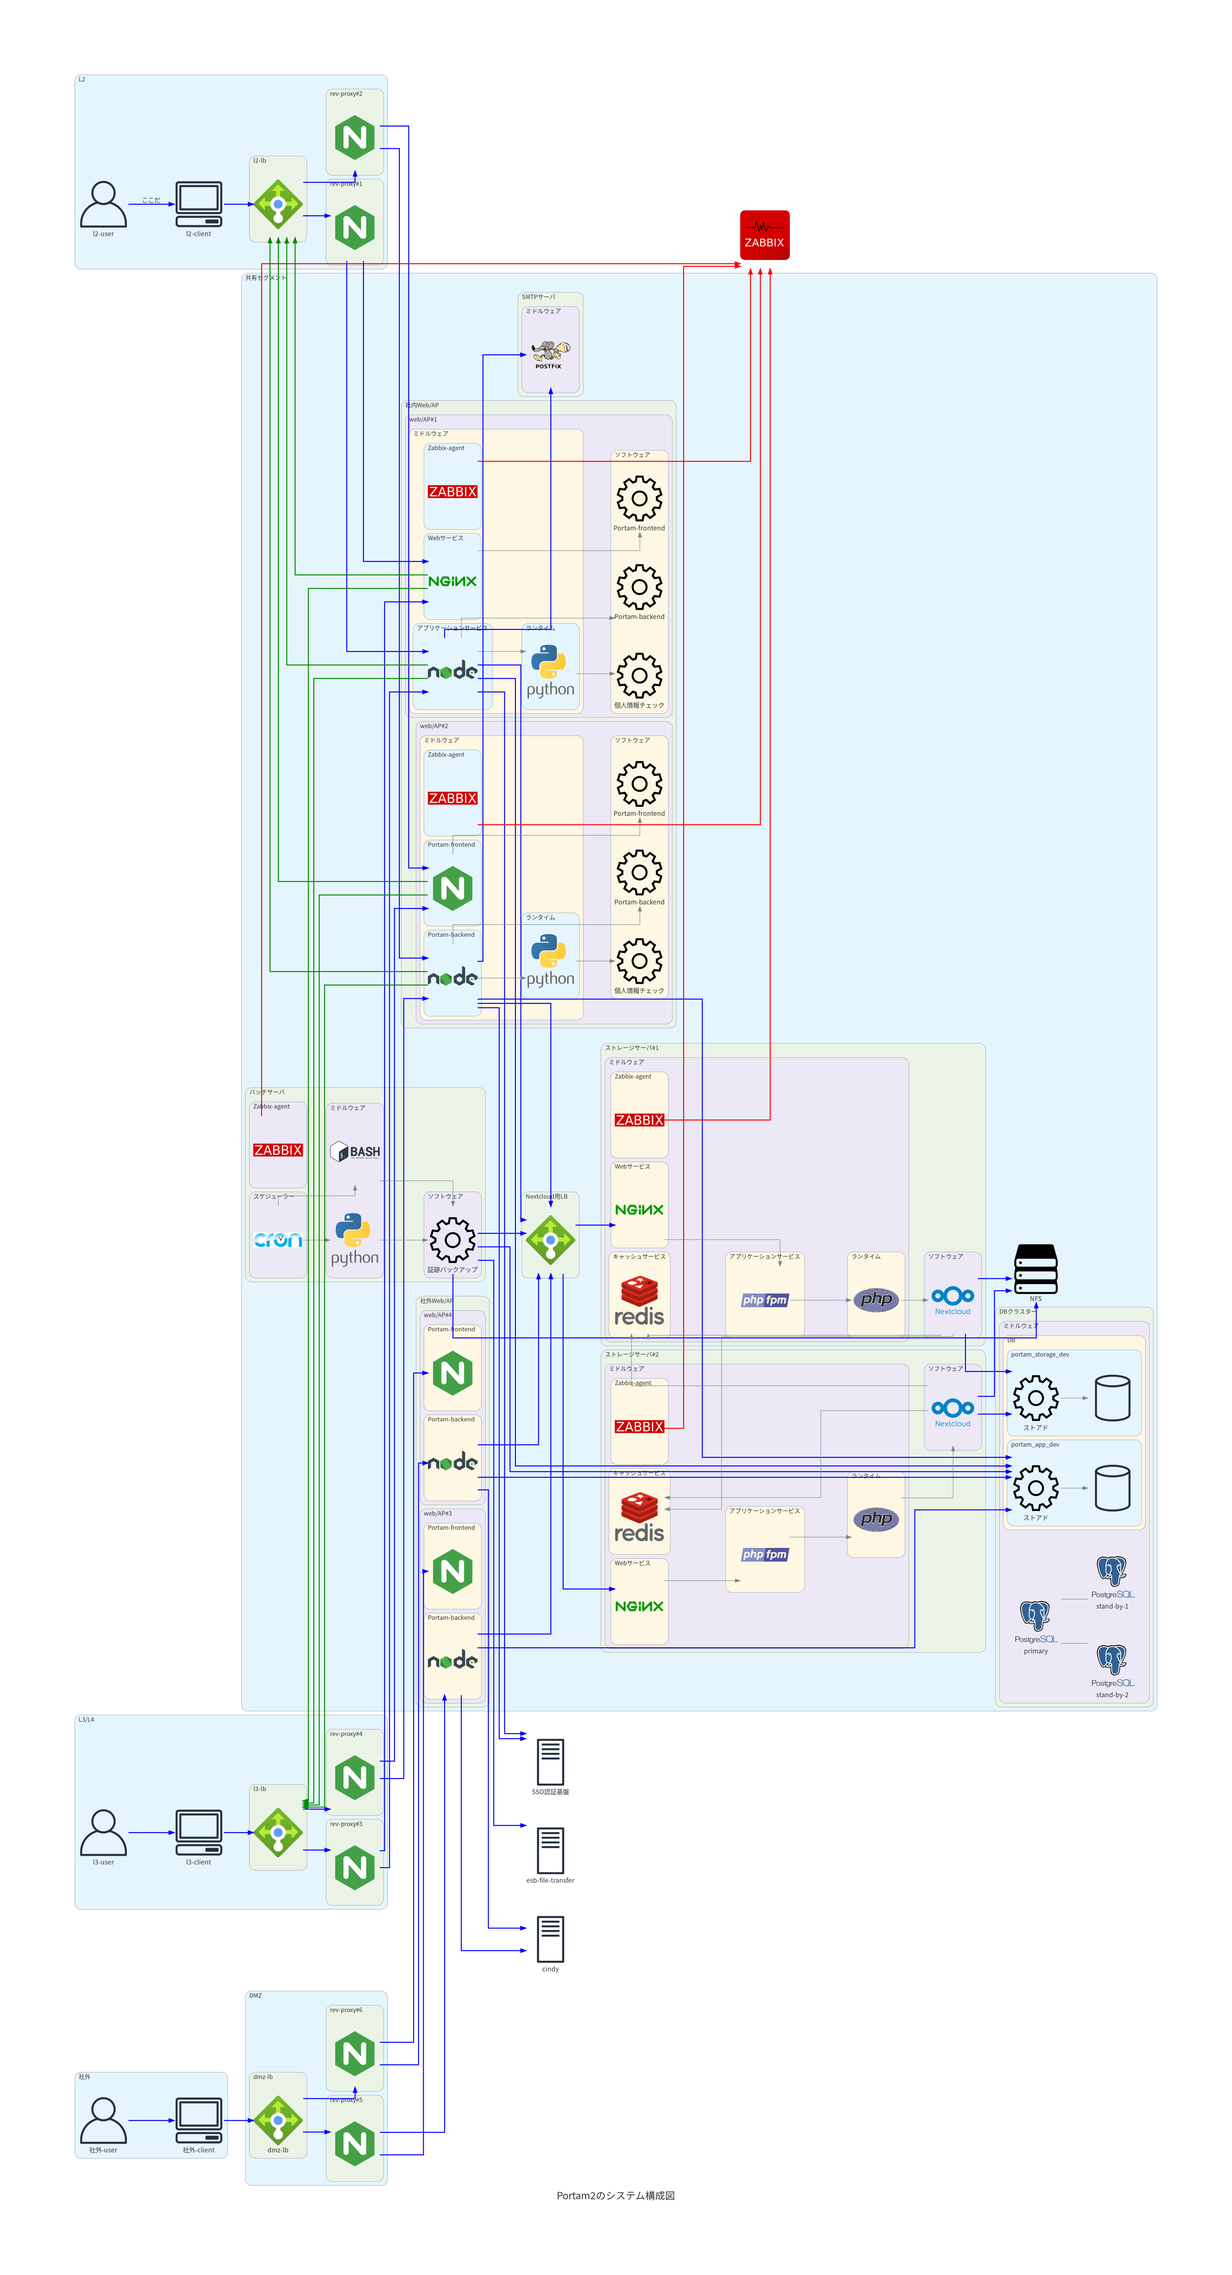
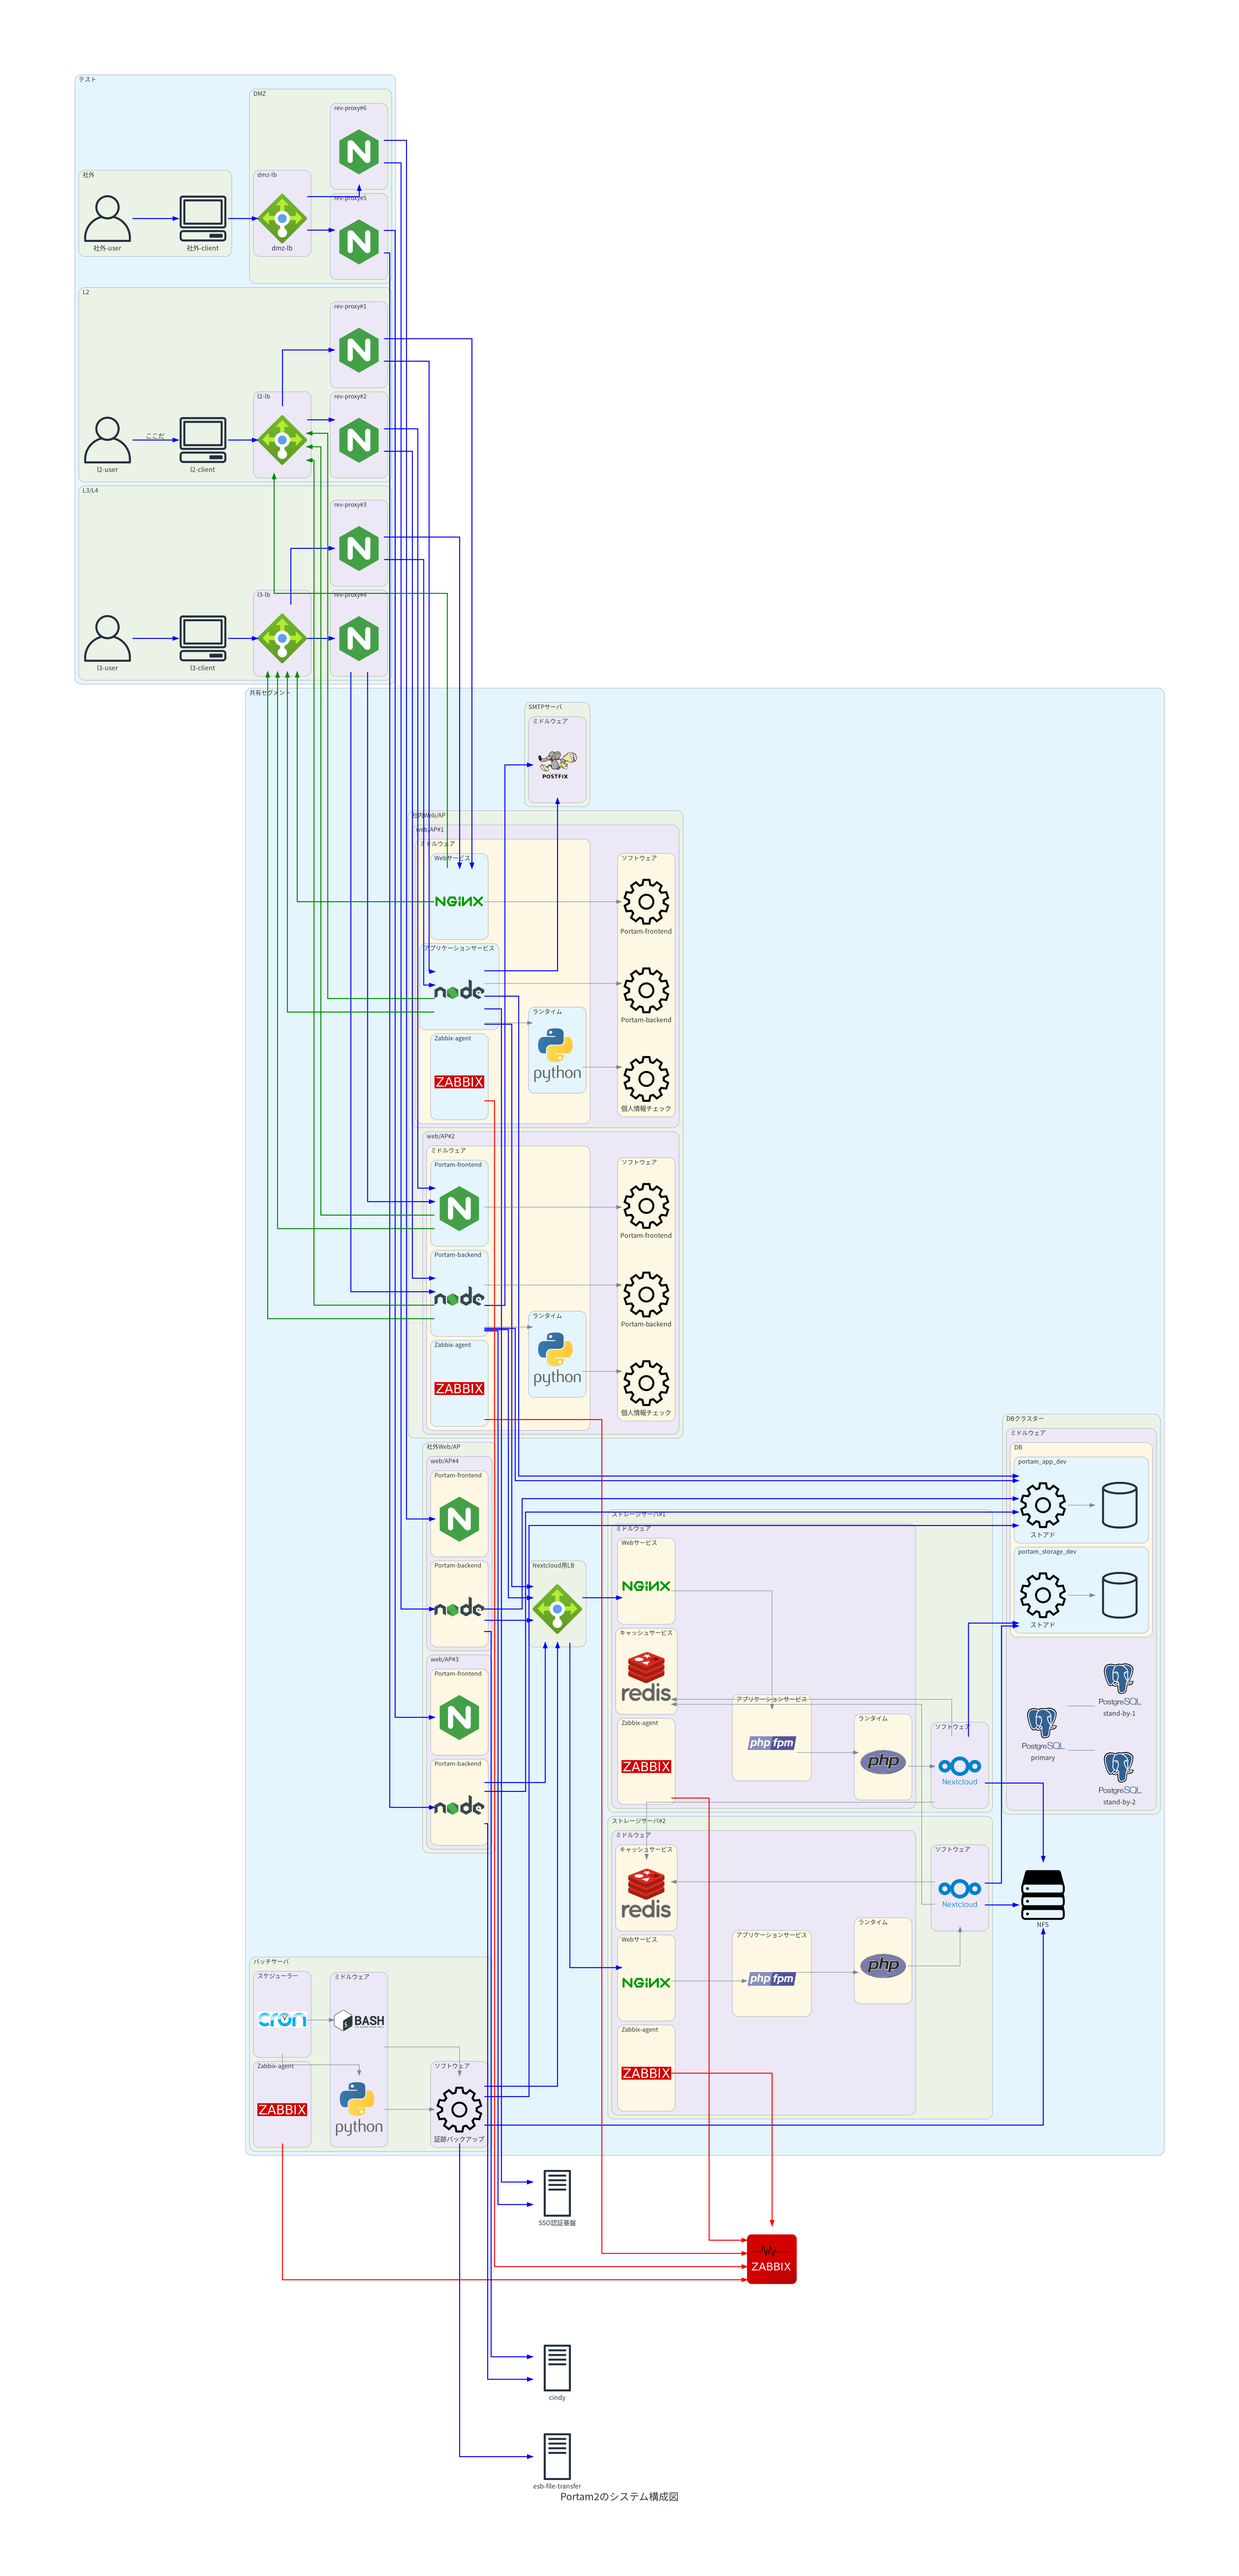
ダイアグラムの更新

diff --git a/portam2_system_diagram_2.py b/portam2_system_diagram_2.py
@@ -1,0 +1,258 @@
+from diagrams import Cluster, Diagram, Edge
+from diagrams.aws.compute import EC2
+from diagrams.aws.database import RDS
+from diagrams.onprem.database import PostgreSQL
+from diagrams.generic.storage import Storage 
+# from diagrams.programming.flowchart import Database
+from diagrams.custom import Custom
+from diagrams.azure.network import LoadBalancers
+from diagrams.aws.general import TraditionalServer
+from diagrams.aws.general import Client
+from diagrams.aws.general import User
+from diagrams.onprem.network import Nginx
+from diagrams.programming.language import Nodejs
+from diagrams.programming.language import Python
+from diagrams.onprem.monitoring import Zabbix
+from diagrams.aws.general import GenericDatabase
+from diagrams.generic.database import SQL
+from diagrams.programming.language import Php
+
+graph_attr = {
+    "fontsize": "20"
+}
+
+with Diagram("Portam2のシステム構成図", filename="portam2_system_diagram", show=False, direction="LR",graph_attr=graph_attr):
+
+    with Cluster("L2"):
+        with Cluster("l2-user"):
+            l2u = User("")
+            l2c = Client("l2-client")
+        with Cluster("l2-lb"):
+            l2lb = LoadBalancers("")
+
+        with Cluster("rev-proxy#1"):
+            rp1 = Nginx("")
+
+        with Cluster("rev-proxy#2"):
+            rp2 = Nginx("")
+
+    with Cluster("L3/L4"):
+        with Cluster("l3-user"):
+            l3u = User("")
+            l3c = Client("l3-client")
+        with Cluster("l3-lb"):
+            l3lb = LoadBalancers("")
+
+        with Cluster("rev-proxy#3"):
+            rp3 = Nginx("")
+        with Cluster("rev-proxy#4"):
+            rp4 = Nginx("")
+
+    with Cluster("DMZ"):
+        with Cluster("dmz-lb"):
+            dmzlb = LoadBalancers("dmz-lb")
+        with Cluster("rev-proxy#6"):
+            rp6 = Nginx("")
+        with Cluster("rev-proxy#5"):
+            rp5 = Nginx("")
+
+    with Cluster("社外-user"):
+        outu = User("社外-user")
+        outc = Client("社外-client")
+
+    with Cluster("共有セグメント"):
+
+        with Cluster("バッチサーバ"):
+            with Cluster("スケジューラー"):
+                with Cluster("証跡バックアップ"):
+                    pybat = Custom("", "./bash-pyton.png")
+            with Cluster("Zabbix-agent"):
+                zbat = Custom("", "./zabbix.png")
+            with Cluster("キャッシュサービス"):
+                r3 = Custom("", "./redis.png")
+
+        with Cluster("SMTPサーバ"):
+            smtp = Custom("", "./Postfix.png")
+
+        with Cluster("社内Web/AP"):
+
+            with Cluster("web/AP#1"):
+                with Cluster("Portam-frontend"):
+                    w1 = Custom("", "./nginx-b.png")
+                with Cluster("Portam-backend"):
+                    a1 = Nodejs("")
+                with Cluster("個人情報チェック"):
+                    py1 = Custom("", "./python.png")
+                with Cluster("Zabbix-agent"):
+                    za1 = Custom("", "./zabbix.png")
+                a1 >> py1
+
+            with Cluster("web/AP#2"):
+                with Cluster("Portam-frontend"):
+                    w2 = Nginx("")
+                with Cluster("Portam-backend"):
+                    a2 = Nodejs("")
+                with Cluster("個人情報チェック"):
+                    py2 = Custom("", "./python.png")
+                with Cluster("Zabbix-agent"):
+                    za2 = Custom("", "./zabbix.png")
+                a2 >> py2
+
+        with Cluster("社外Web/AP"):
+
+            with Cluster("web/AP#3"):
+                with Cluster("Portam-frontend"):
+                    w3 = Nginx("")
+                with Cluster("Portam-backend"):
+                    a3 = Nodejs("")
+
+            with Cluster("web/AP#4"):
+                with Cluster("Portam-frontend"):
+                    w4 = Nginx("")
+                with Cluster("Portam-backend"):
+                    a4 = Nodejs("")
+
+        with Cluster("DBクラスター"):
+            with Cluster("ミドルウェア"):
+                with Cluster("DB"):
+                    with Cluster("portam_app_dev"):
+                        portam_app_dev = GenericDatabase("")
+                        portam_app_dev_SQL = SQL("ストアド")
+                    portam_app_dev_SQL >> portam_app_dev 
+                
+                    with Cluster("portam_storage_dev"):
+                        portam_storage_dev = GenericDatabase("")
+                        portam_storage_dev_SQL = SQL("ストアド")
+                    portam_storage_dev_SQL >> portam_storage_dev 
+
+                psr2 = Custom("stand-by-1", "./postgresql.png")
+                psr1 = Custom("stand-by-2", "./postgresql.png")
+                psp = Custom("primary", "./postgresql.png")
+                psp - psr1
+                psp - psr2
+
+        with Cluster("Nextcloud用LB"):
+            stlb = LoadBalancers("")
+        
+        with Cluster("ストレージサーバ#1"):
+            # with Cluster("ソフトウェア"):
+            #     nc1 = Custom("", "./nextcloud.png")
+            with Cluster("キャッシュサービス"):
+                r1 = Custom("", "./redis.png")
+            # with Cluster("ランタイム"):
+            #     php1 =  Php("")
+            # with Cluster("アプリケーションサービス"):
+            #     pf1 = Custom("", "./php-fpm.png")
+            with Cluster("Nextcoloud"):
+                nxs1 = Custom("", "./nextclod-all.png")
+            with Cluster("Zabbix-agent"):
+                zs1 = Custom("", "./zabbix.png")
+
+        # nxs1 >> pf1 >> php1 >> nc1 >> r1
+        nxs1 >> r1
+        
+        with Cluster("ストレージサーバ#2"):
+            # with Cluster("ソフトウェア"):
+            #     nc2 = Custom("", "./nextcloud.png")
+            with Cluster("キャッシュサービス"):
+                r2 = Custom("", "./redis.png")
+            # with Cluster("ランタイム"):
+            #     php2 =  Php("")
+            # with Cluster("アプリケーションサービス"):
+            #     pf2 = Custom("", "./php-fpm.png")
+            with Cluster("Nextcoloud"):
+                nxs2 = Custom("", "./nextclod-all.png")
+            with Cluster("Zabbix-agent"):
+                zs2 = Custom("", "./zabbix.png")
+        # nxs2 >> pf2 >> php2 >> nc2 >> r2
+        nxs2 >> r2
+
+        nfs = Storage("NFS")
+    
+    nxs1 >> r2
+    nxs2 >> r1
+    nxs1 >> r3
+    nxs2 >> r3
+
+    sso = TraditionalServer("SSO認証基盤")
+    eft = TraditionalServer("esb-file-transfer")
+    cindy = TraditionalServer("cindy")
+    za = Zabbix("")
+
+    za1 >> Edge(color="red",  style="bold") >> za
+    za2 >> Edge(color="red",  style="bold") >> za
+    zs1 >> Edge(color="red",  style="bold") >> za
+    zs2 >> Edge(color="red",  style="bold") >> za
+    zbat >> Edge(color="red",  style="bold") >> za
+
+    a1 >> Edge(color="blue",  style="bold") >> portam_app_dev_SQL
+    a2 >> Edge(color="blue",  style="bold") >> portam_app_dev_SQL
+    a3 >> Edge(color="blue",  style="bold") >> portam_app_dev_SQL
+    a4 >> Edge(color="blue",  style="bold") >> portam_app_dev_SQL
+    a1 >> Edge(color="blue",  style="bold") >> smtp
+    a2 >> Edge(color="blue",  style="bold") >> smtp
+    a1 >> Edge(color="blue",  style="bold") >> stlb
+    a2 >> Edge(color="blue",  style="bold") >> stlb
+    a3 >> Edge(color="blue",  style="bold") >> stlb
+    a4 >> Edge(color="blue",  style="bold") >> stlb
+    stlb >> Edge(color="blue",  style="bold") >> nxs1
+    stlb >> Edge(color="blue",  style="bold") >> nxs2
+    # nc1 >> Edge(color="blue",  style="bold") >> nfs
+    nxs1 >> Edge(color="blue",  style="bold") >> nfs
+    # nc2 >> Edge(color="blue",  style="bold") >> nfs
+    nxs2 >> Edge(color="blue",  style="bold") >> nfs
+    nxs1 >> Edge(color="blue",  style="bold") >> portam_storage_dev_SQL
+    nxs2 >> Edge(color="blue",  style="bold") >> portam_storage_dev_SQL
+    pybat >> Edge(color="blue",  style="bold") >> stlb
+    pybat >> Edge(color="blue",  style="bold") >> nfs
+    pybat >> Edge(color="blue",  style="bold") >> portam_app_dev_SQL
+
+    # l2u >> Edge(label="ここだ", color="blue",  style="bold") >> l2c
+    l2c >> Edge(color="blue",  style="bold") >>l2lb
+    l2lb >> Edge(color="blue",  style="bold") >> rp1
+    l2lb >> Edge(color="blue",  style="bold") >> rp2
+
+    # l3u >> Edge(color="blue",  style="bold") >> l3c
+    l3c >> Edge(color="blue",  style="bold") >> l3lb
+    l3lb >> Edge(color="blue",  style="bold") >> rp3
+    l3lb >> Edge(color="blue",  style="bold") >> rp4
+
+    # outu >> Edge(color="blue",  style="bold") >> outc
+    outc >> Edge(color="blue",  style="bold") >> dmzlb
+    dmzlb >> Edge(color="blue",  style="bold") >> rp5
+    dmzlb >> Edge(color="blue",  style="bold") >> rp6
+
+    rp1 >> Edge(color="blue",  style="bold") >> w1
+    rp1 >> Edge(color="blue",  style="bold") >> a1
+
+    # w1 >> Edge(label="Portam-backendにL2用LB経由でアクセス", color="red",  style="bold", edge_attr=edge_attr) >> l2lb
+    w1 >> Edge(color="green4",  style="bold") >> l2lb
+    a1 >> Edge(color="green4",  style="bold") >> l2lb
+    
+    rp2 >> Edge(color="blue",  style="bold") >> w2
+    rp2 >> Edge(color="blue",  style="bold") >> a2
+
+    w2 >> Edge(color="green4",  style="bold") >> l2lb
+    a2 >> Edge(color="green4",  style="bold") >> l2lb
+
+    rp3 >> Edge(color="blue",  style="bold") >> w1
+    rp3 >> Edge(color="blue",  style="bold") >> a1
+
+    w1 >> Edge(color="green4",  style="bold") >> l3lb
+    a1 >> Edge(color="green4",  style="bold") >> l3lb
+
+    rp4 >> Edge(color="blue",  style="bold") >> w2
+    rp4 >> Edge(color="blue",  style="bold") >> a2
+
+    w2 >> Edge(color="green4",  style="bold") >> l3lb
+    a2 >> Edge(color="green4",  style="bold") >> l3lb
+ 
+    rp5 >> Edge(color="blue",  style="bold") >> w3
+    rp5 >> Edge(color="blue",  style="bold") >> a3
+    rp6 >> Edge(color="blue",  style="bold") >> w4
+    rp6 >> Edge(color="blue",  style="bold") >> a4
+    a1 >> Edge(color="blue",  style="bold") >> sso
+    a2 >> Edge(color="blue",  style="bold") >> sso
+    pybat >> Edge(color="blue",  style="bold") >> eft
+    a3 >> Edge(color="blue",  style="bold") >> cindy
+    a4 >> Edge(color="blue",  style="bold") >> cindy

diff --git a/portam2_system_diagram_1.py b/portam2_system_diagram_1.py
@@ -25,42 +25,44 @@ edge_attr = {
     "labelfontcolor": "red"
 }
 
-with Diagram("Portam2のシステム構成図", filename="simple_diagram", show=False, direction="LR",graph_attr=graph_attr):
+with Diagram("Portam2のシステム構成図", filename="portam2_system_diagram", show=False, direction="LR",graph_attr=graph_attr):
 
-    with Cluster("L2"):
-        l2u = User("l2-user")
-        l2c = Client("l2-client")
-        with Cluster("l2-lb"):
-            l2lb = LoadBalancers("")
+    with Cluster("テスト"):
 
-        with Cluster("rev-proxy#1"):
-            rp1 = Nginx("")
+        with Cluster("L2"):
+            l2u = User("l2-user")
+            l2c = Client("l2-client")
+            with Cluster("l2-lb"):
+                l2lb = LoadBalancers("")
 
-        with Cluster("rev-proxy#2"):
-            rp2 = Nginx("")
+            with Cluster("rev-proxy#1"):
+                rp1 = Nginx("")
 
-    with Cluster("L3/L4"):
-        l3u = User("l3-user")
-        l3c = Client("l3-client")
-        with Cluster("l3-lb"):
-            l3lb = LoadBalancers("")
+            with Cluster("rev-proxy#2"):
+                rp2 = Nginx("")
 
-        with Cluster("rev-proxy#3"):
-            rp3 = Nginx("")
-        with Cluster("rev-proxy#4"):
-            rp4 = Nginx("")
+        with Cluster("L3/L4"):
+            l3u = User("l3-user")
+            l3c = Client("l3-client")
+            with Cluster("l3-lb"):
+                l3lb = LoadBalancers("")
 
-    with Cluster("DMZ"):
-        with Cluster("dmz-lb"):
-            dmzlb = LoadBalancers("dmz-lb")
-        with Cluster("rev-proxy#6"):
-            rp6 = Nginx("")
-        with Cluster("rev-proxy#5"):
-            rp5 = Nginx("")
+            with Cluster("rev-proxy#3"):
+                rp3 = Nginx("")
+            with Cluster("rev-proxy#4"):
+                rp4 = Nginx("")
 
-    with Cluster("社外"):
-        outu = User("社外-user")
-        outc = Client("社外-client")
+        with Cluster("DMZ"):
+            with Cluster("dmz-lb"):
+                dmzlb = LoadBalancers("dmz-lb")
+            with Cluster("rev-proxy#6"):
+                rp6 = Nginx("")
+            with Cluster("rev-proxy#5"):
+                rp5 = Nginx("")
+
+        with Cluster("社外"):
+            outu = User("社外-user")
+            outc = Client("社外-client")
 
     with Cluster("共有セグメント"):
 
